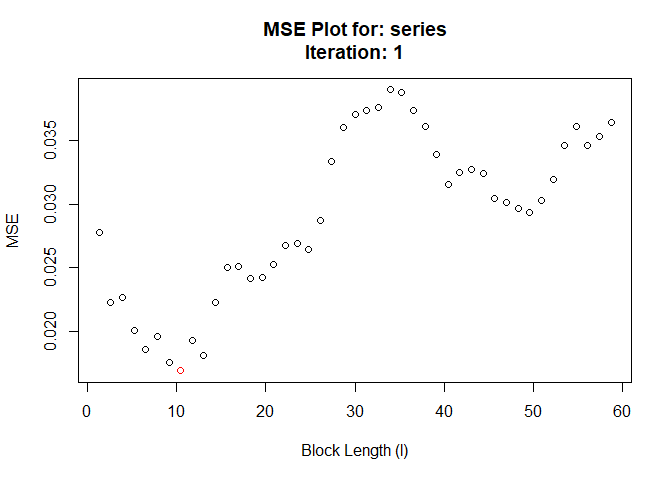
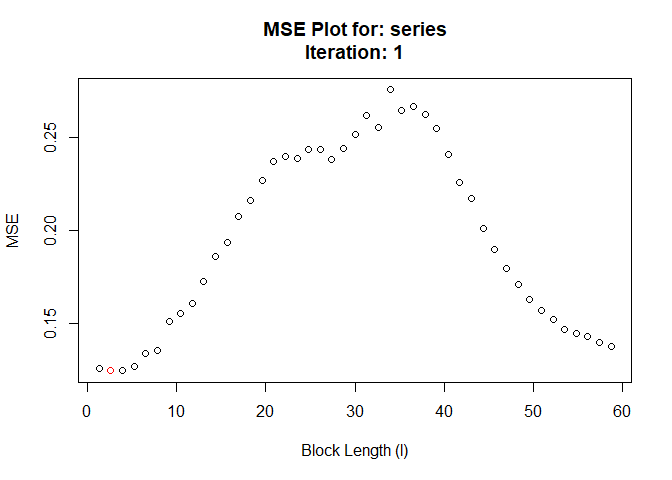
Update Travis badge

diff --git a/README.md b/README.md
@@ -5,8 +5,8 @@
 
 <!-- badges: start -->
 
-[![Travis build
-status](https://travis-ci.com/Alec-Stashevsky/hhjboot.svg?branch=main)](https://travis-ci.com/Alec-Stashevsky/hhjboot)
+[![Build
+Status](https://travis-ci.org/Alec-Stashevsky/hhjboot.svg?branch=main)](https://travis-ci.org/Alec-Stashevsky/hhjboot)
 <!-- badges: end -->
 
 The goal of hhjboot is to simplify and automate the process of selecting
@@ -56,49 +56,13 @@ hhjboot(series, sub.block.size = 45)
 #>   as.zoo.data.frame zoo
 #> Performing minimization may take some time
 #> Calculating MSE for each level in subsample: 45 function evaluations required.
-#>  Chosen block length: 10  After iteration: 1
+#>  Converged at block length (l): 3
 ```
 
 <img src="man/figures/README-example-1.png" width="100%" />
 
-    #>  Chosen block length: 9  After iteration: 2
-
-<img src="man/figures/README-example-2.png" width="100%" />
-
-    #>  Chosen block length: 10  After iteration: 3
-
-<img src="man/figures/README-example-3.png" width="100%" />
-
-    #>  Chosen block length: 7  After iteration: 4
-
-<img src="man/figures/README-example-4.png" width="100%" />
-
-    #>  Chosen block length: 10  After iteration: 5
-
-<img src="man/figures/README-example-5.png" width="100%" />
-
-    #>  Chosen block length: 8  After iteration: 6
-
-<img src="man/figures/README-example-6.png" width="100%" />
-
-    #>  Chosen block length: 7  After iteration: 7
-
-<img src="man/figures/README-example-7.png" width="100%" />
-
-    #>  Chosen block length: 25  After iteration: 8
-
-<img src="man/figures/README-example-8.png" width="100%" />
-
-    #>  Chosen block length: 40  After iteration: 9
-
-<img src="man/figures/README-example-9.png" width="100%" />
-
-    #>  Converged at block length (l): 40
-
-<img src="man/figures/README-example-10.png" width="100%" />
-
     #> $`Optimal Block Length`
-    #> [1] 40
+    #> [1] 3
     #> 
     #> $`Pilot Number of Blocks (m)`
     #> [1] 45
